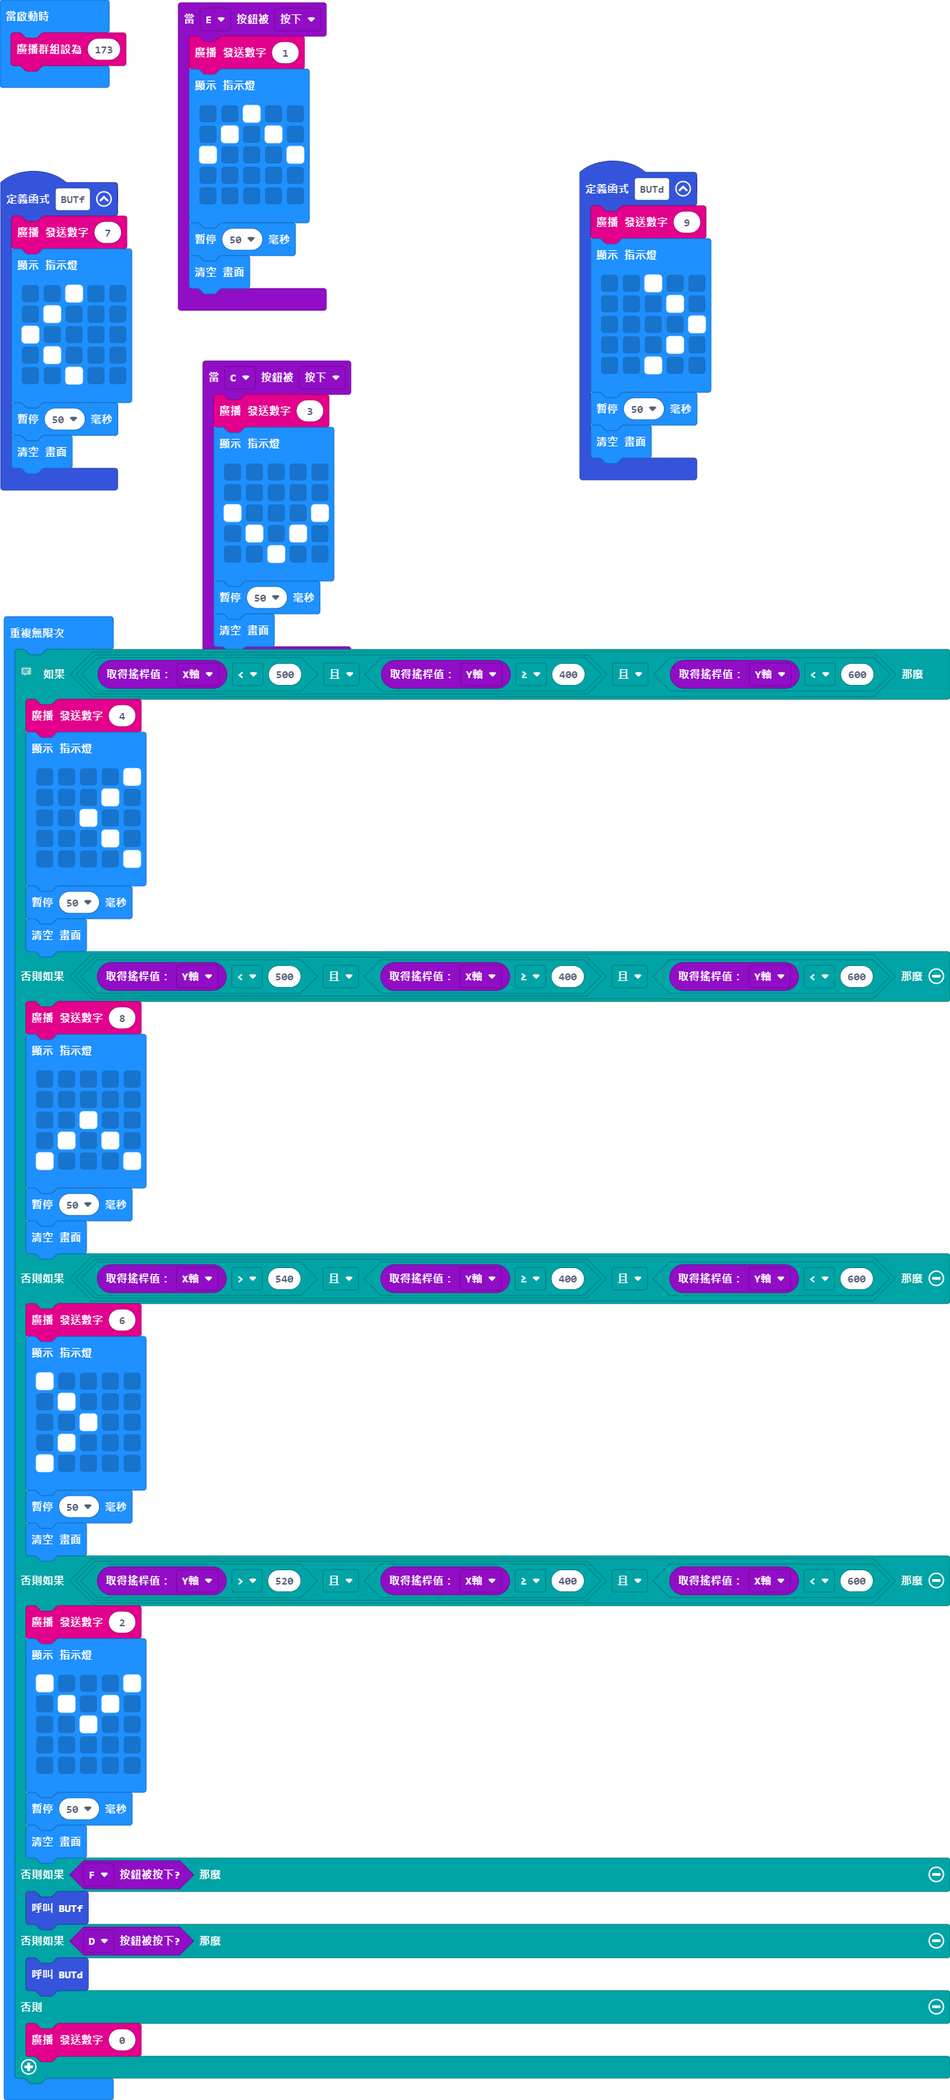
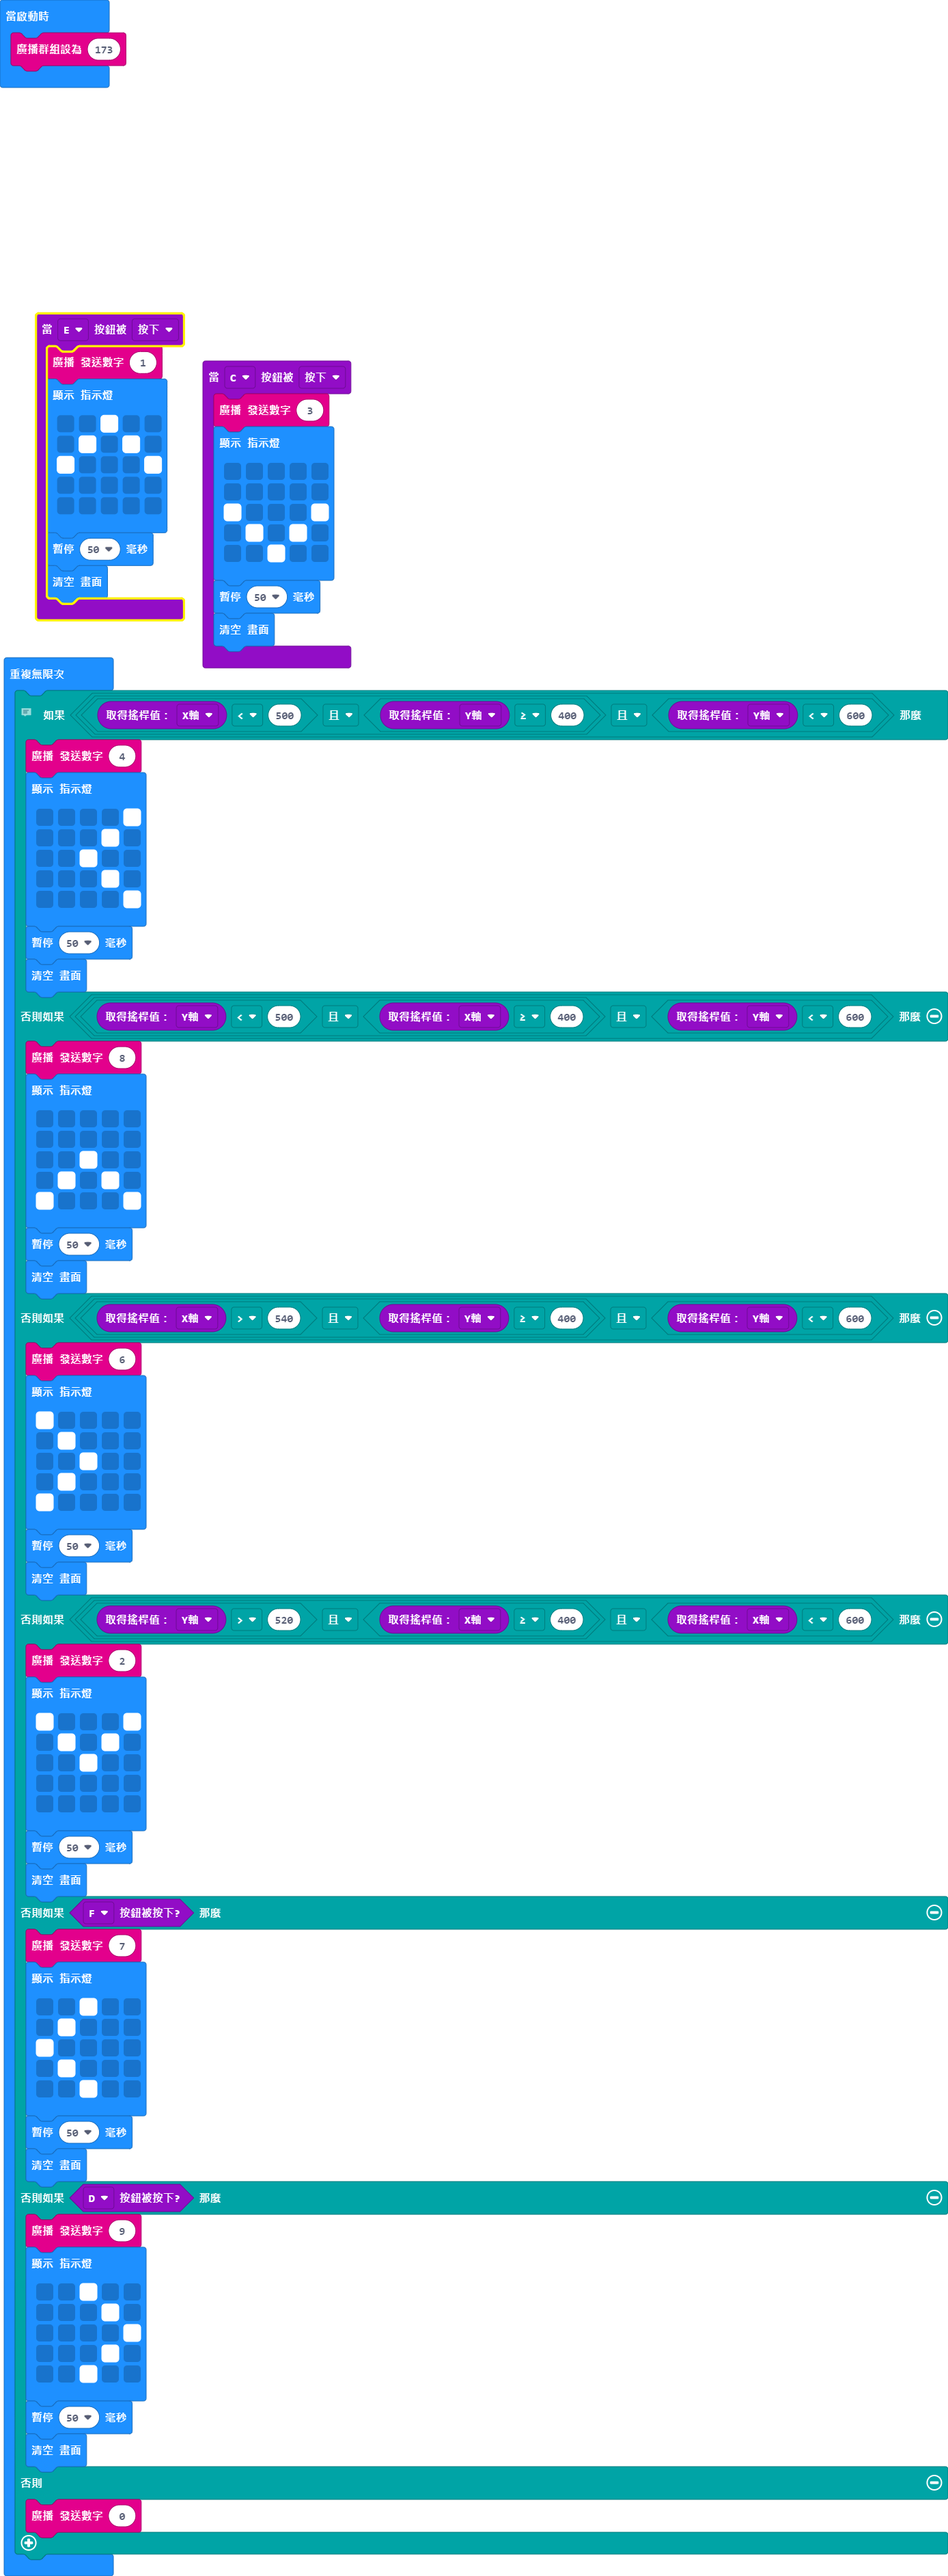
更新 main.blocks, main.ts

diff --git a/main.ts b/main.ts
@@ -10,30 +10,6 @@ KSB045.onBtnChanged(KSB045.btnName.C, KSB045.pushType.down, function () {
     basic.pause(50)
     basic.clearScreen()
 })
-function BUTd () {
-    radio.sendNumber(9)
-    basic.showLeds(`
-        . . # . .
-        . . . # .
-        . . . . #
-        . . . # .
-        . . # . .
-        `)
-    basic.pause(50)
-    basic.clearScreen()
-}
-function BUTf () {
-    radio.sendNumber(7)
-    basic.showLeds(`
-        . . # . .
-        . # . . .
-        # . . . .
-        . # . . .
-        . . # . .
-        `)
-    basic.pause(50)
-    basic.clearScreen()
-}
 KSB045.onBtnChanged(KSB045.btnName.E, KSB045.pushType.down, function () {
     radio.sendNumber(1)
     basic.showLeds(`
@@ -97,9 +73,27 @@ basic.forever(function () {
         basic.pause(50)
         basic.clearScreen()
     } else if (KSB045.getBtnValue(KSB045.btnName.F)) {
-        BUTf()
+        radio.sendNumber(7)
+        basic.showLeds(`
+            . . # . .
+            . # . . .
+            # . . . .
+            . # . . .
+            . . # . .
+            `)
+        basic.pause(50)
+        basic.clearScreen()
     } else if (KSB045.getBtnValue(KSB045.btnName.D)) {
-        BUTd()
+        radio.sendNumber(9)
+        basic.showLeds(`
+            . . # . .
+            . . . # .
+            . . . . #
+            . . . # .
+            . . # . .
+            `)
+        basic.pause(50)
+        basic.clearScreen()
     } else {
         radio.sendNumber(0)
     }
